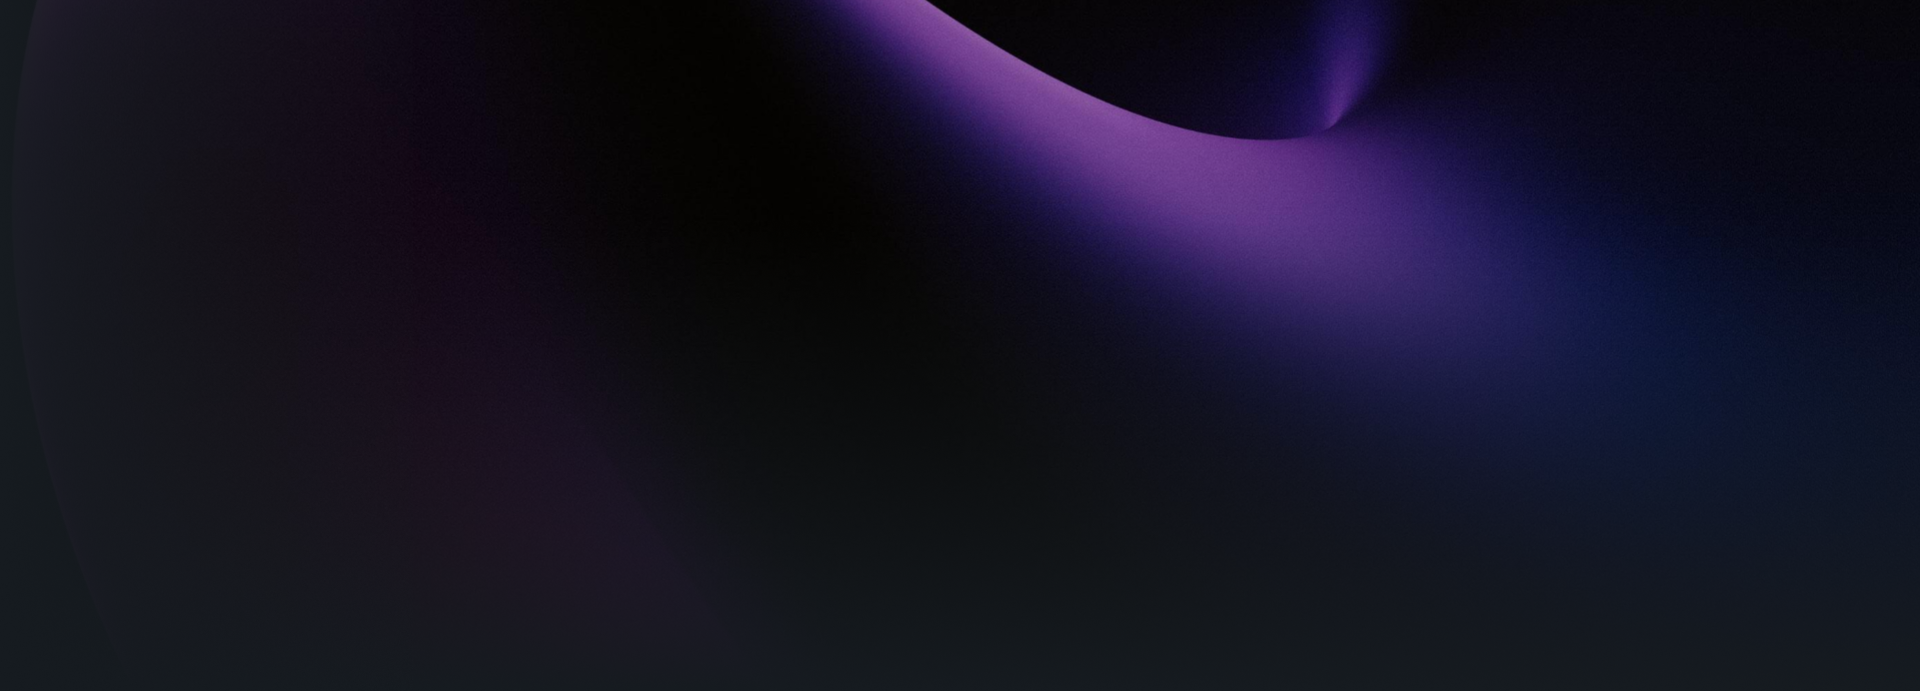
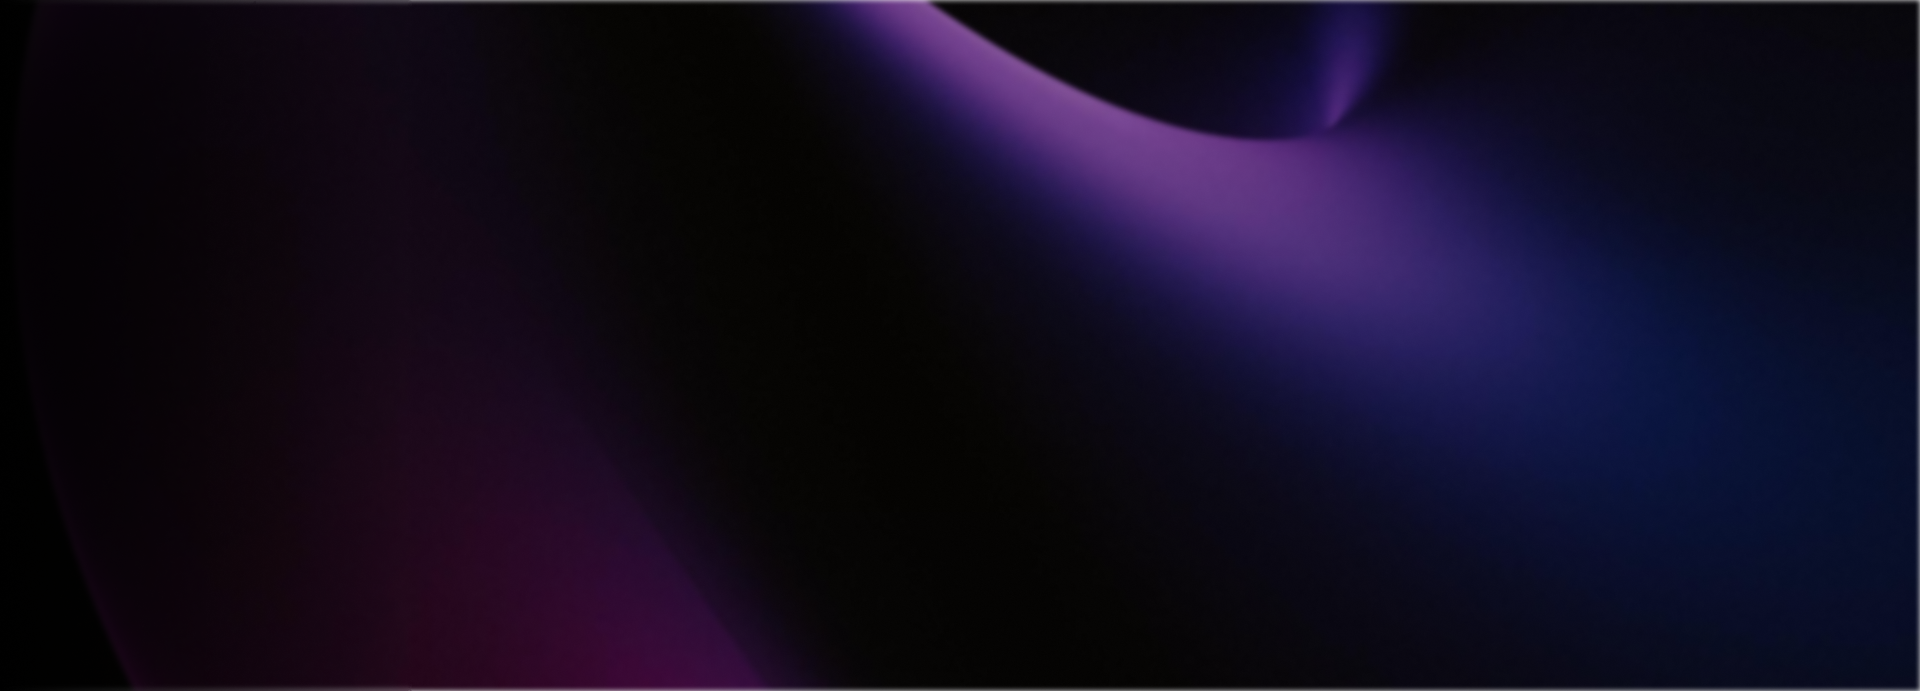
change bg

diff --git a/src/theme/index.tsx b/src/theme/index.tsx
@@ -386,6 +386,8 @@ html {
   color: ${({ theme }) => theme.deprecated_text1};
   background-image: url(${Background_0VIX});
   background-size: cover;
+  backdrop-filter: blur(2px);
+  -webkit-backdrop-filter: blur(2px);
 }
 
 a {
